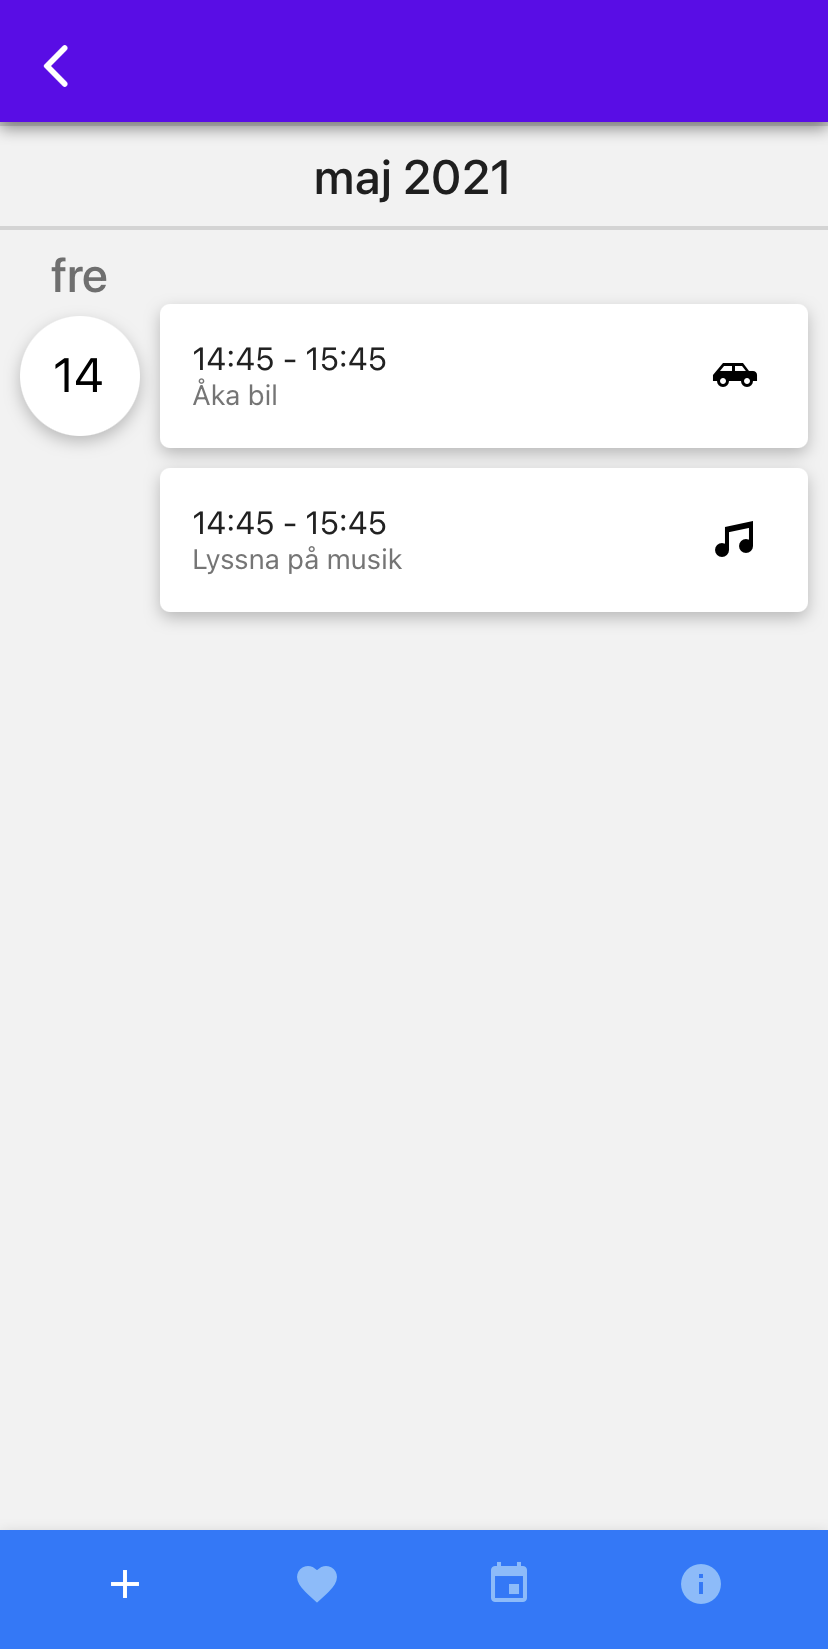
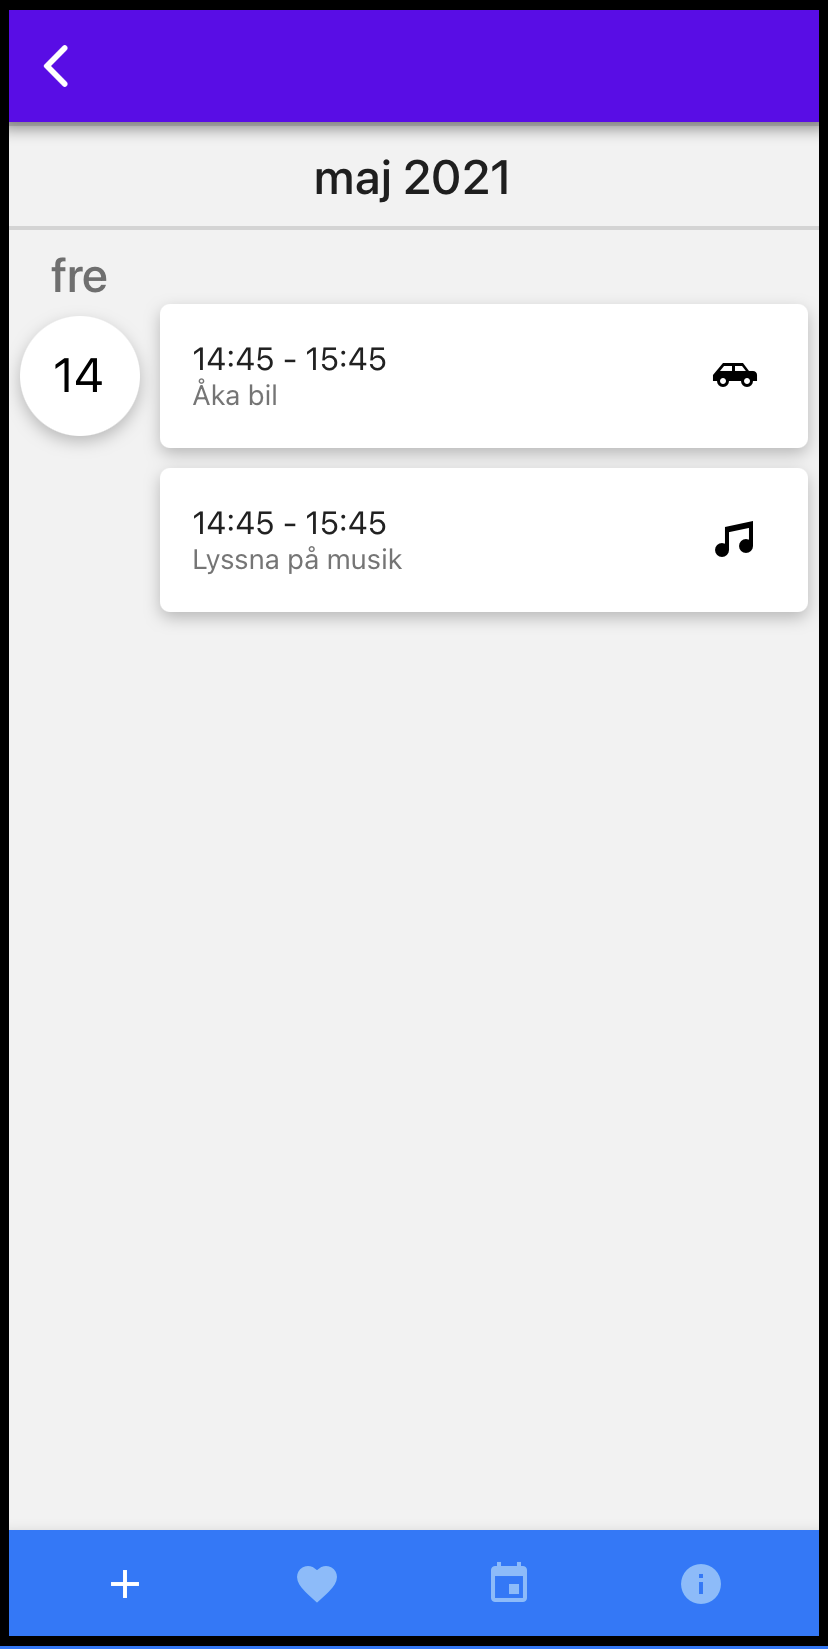
border around images

Changed region(s): [[0.0, 0.0, 1.0, 1.0]]

diff --git a/src/components/info/ActivityInfo.tsx b/src/components/info/ActivityInfo.tsx
@@ -11,10 +11,10 @@ export const ActivityInfo = () => {
       paddingTop: 10
     },
     image: {
-      width: 200, 
-      height: 400, 
+      width: 212, 
+      height: 420, 
       marginBottom: 20,
-      marginTop: 5
+      marginTop: 5,
     },
     heading: {
       fontSize: 30,
